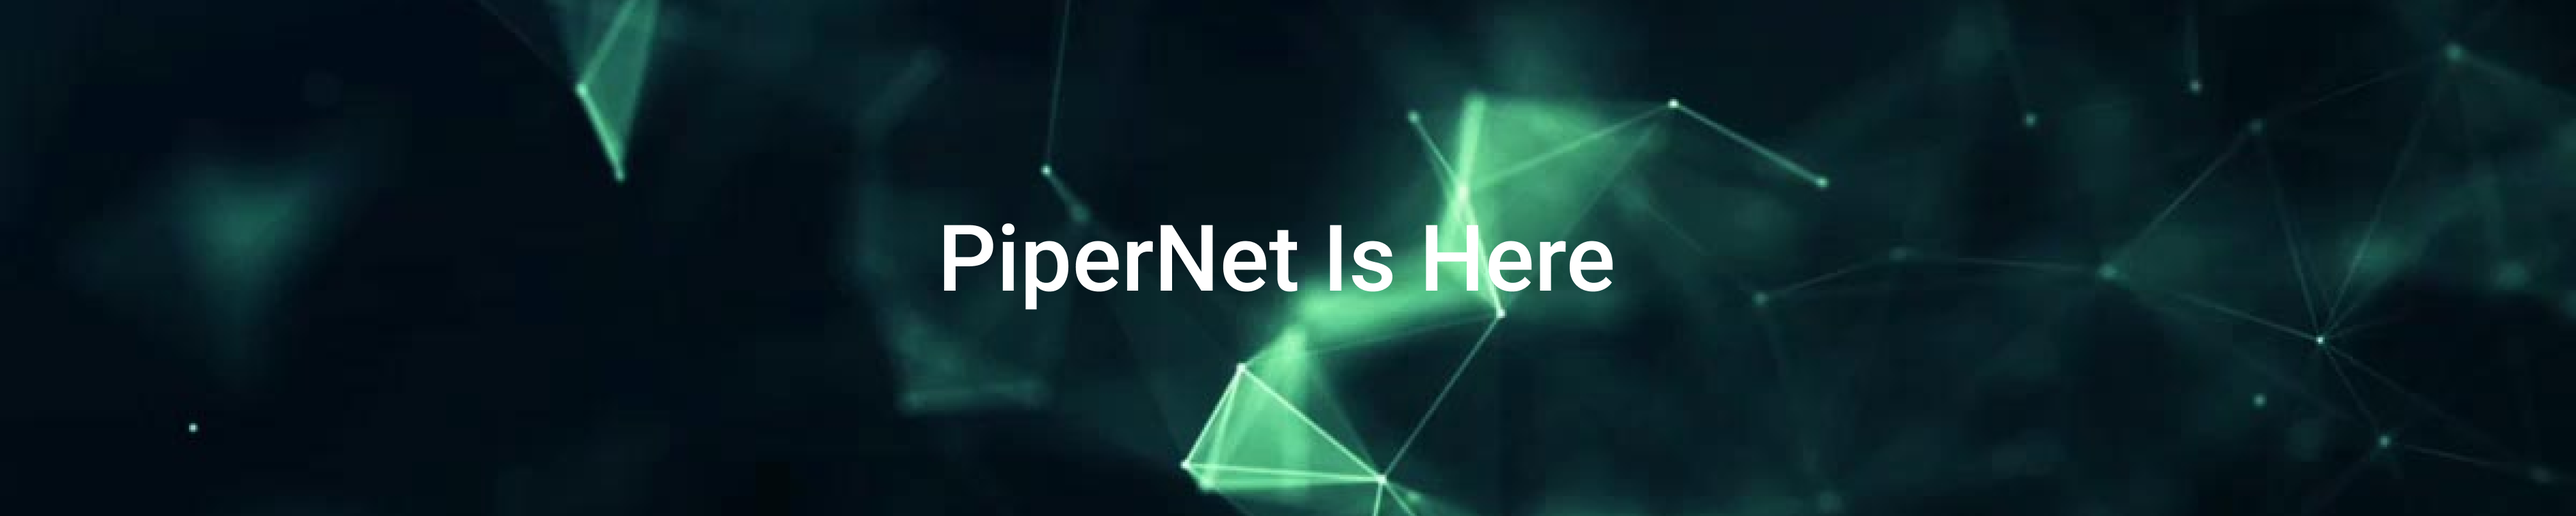
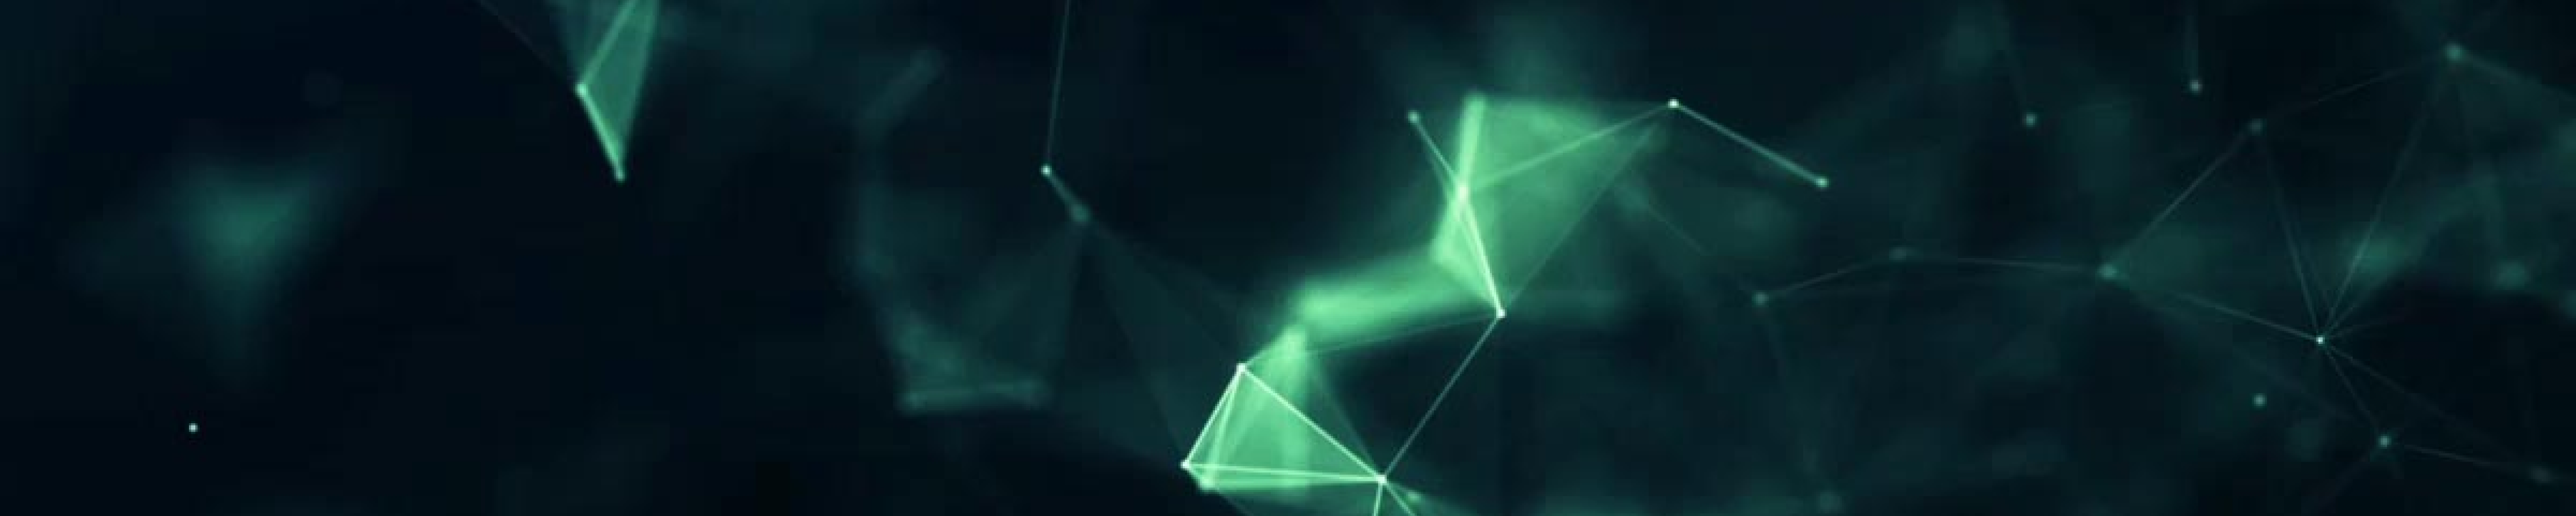
v0.0.2

Changed region(s): [[0.3419, 0.4342, 0.6527, 0.5893]]

diff --git a/index.html b/index.html
@@ -4,29 +4,63 @@
     <meta charset="UTF-8">
     <meta name="viewport" content="width=device-width, initial-scale=1.0">
     <link rel="stylesheet" href="https://cdnjs.cloudflare.com/ajax/libs/normalize/8.0.1/normalize.css">
-    <title>Document</title>
+    <link rel="stylesheet" href="main.css">
+    <title>piedpiper</title>
 </head>
+
 <body>
-    <header>
-        <img src="img/Header.png"
+
+    <header class="site-header">
+        <div class="container">
+            <div class="header-row">
+                <div class="logo">
+                    <a href="#">
+                        <img src="img/logo.png" alt="piedpiper">
+                    </a>
+                </div>
+
+                <nav class="menu">
+                    <ul>
+                        <li><a href="#">the problem</a></li>
+                        <li>|</li>
+                        <li><a href="#">PiedPiperCoin</a></li>
+                        <li>|</li>
+                        <li><a href="#">the team</a></li>
+                    </ul>
+                </nav>
+            </div>
+        </div>
     </header>
-    <jumbotron>
-        <img src="img/Jumbotron.png"
+
+    <div class="s-jumbotron">
+        <div class="container">
+            <div class="jumbotron-wrap">
+                <h1 class="jumbotron-title">PiperNet Is Here</h1>
+            </div>
+        </div>
+    </div>
+        
     </jumbotron>
+
     <problem>
-        <img src="img/The Problem.png"
+        
     </problem>
+
     <hero>
-        <img src="img/Hero.png"
+        
     </hero>
+
     <ppc>
-        <img src="img/PPC.png"
+        
     </ppc>
+
     <team>
-        <img src="img/The Team.png"
+        
     </team>
+
     <footer>
-        <img src="img/Footer.png"
+        
     </footer>
+
 </body>
 </html>

diff --git a/main.css b/main.css
@@ -1,0 +1,67 @@
+* {
+    box-sizing: border-box;
+}
+
+html, body {
+    overflow-x: hidden;
+}
+
+body {
+    /*font-family: ;
+    font-size: ;
+    line-height: ;
+    min-width: ;*/
+    /*position: relative;*/
+    /*overflow-x: ;*/
+    margin: 0;
+    padding: 0;
+}
+
+/*h1,h2 {
+    margin-bottom: ;
+}*/
+
+.container {
+    max-width: 1219px;
+    padding: 0px 55px;
+    margin: 0 auto;
+}
+
+a {
+    color: inherit;
+    text-decoration: none;
+}
+
+/*Header START*/
+.site-header {
+    background-color: #007765;
+    color: #fff;
+}
+.header-row {
+    display: flex;
+    align-items: center;
+    justify-content: space-between;
+}
+.menu ul {
+    list-style-type: none;
+    padding: 0;
+    display: flex;
+    align-items: center;
+    column-gap: 9px;
+}
+.menu ul a {
+    transition: color 0.35s ease;
+}
+.menu ul a:hover {
+    color: black;
+}
+/*Header END*/
+
+/*Jumbotron START*/
+.s-jumbotron {
+    background-image: url("img/jumbotron.png");
+    background-color: #007765;
+    background-repeat: no-repeat;
+    background-size: auto;
+}
+/*Jumbotron END*/
